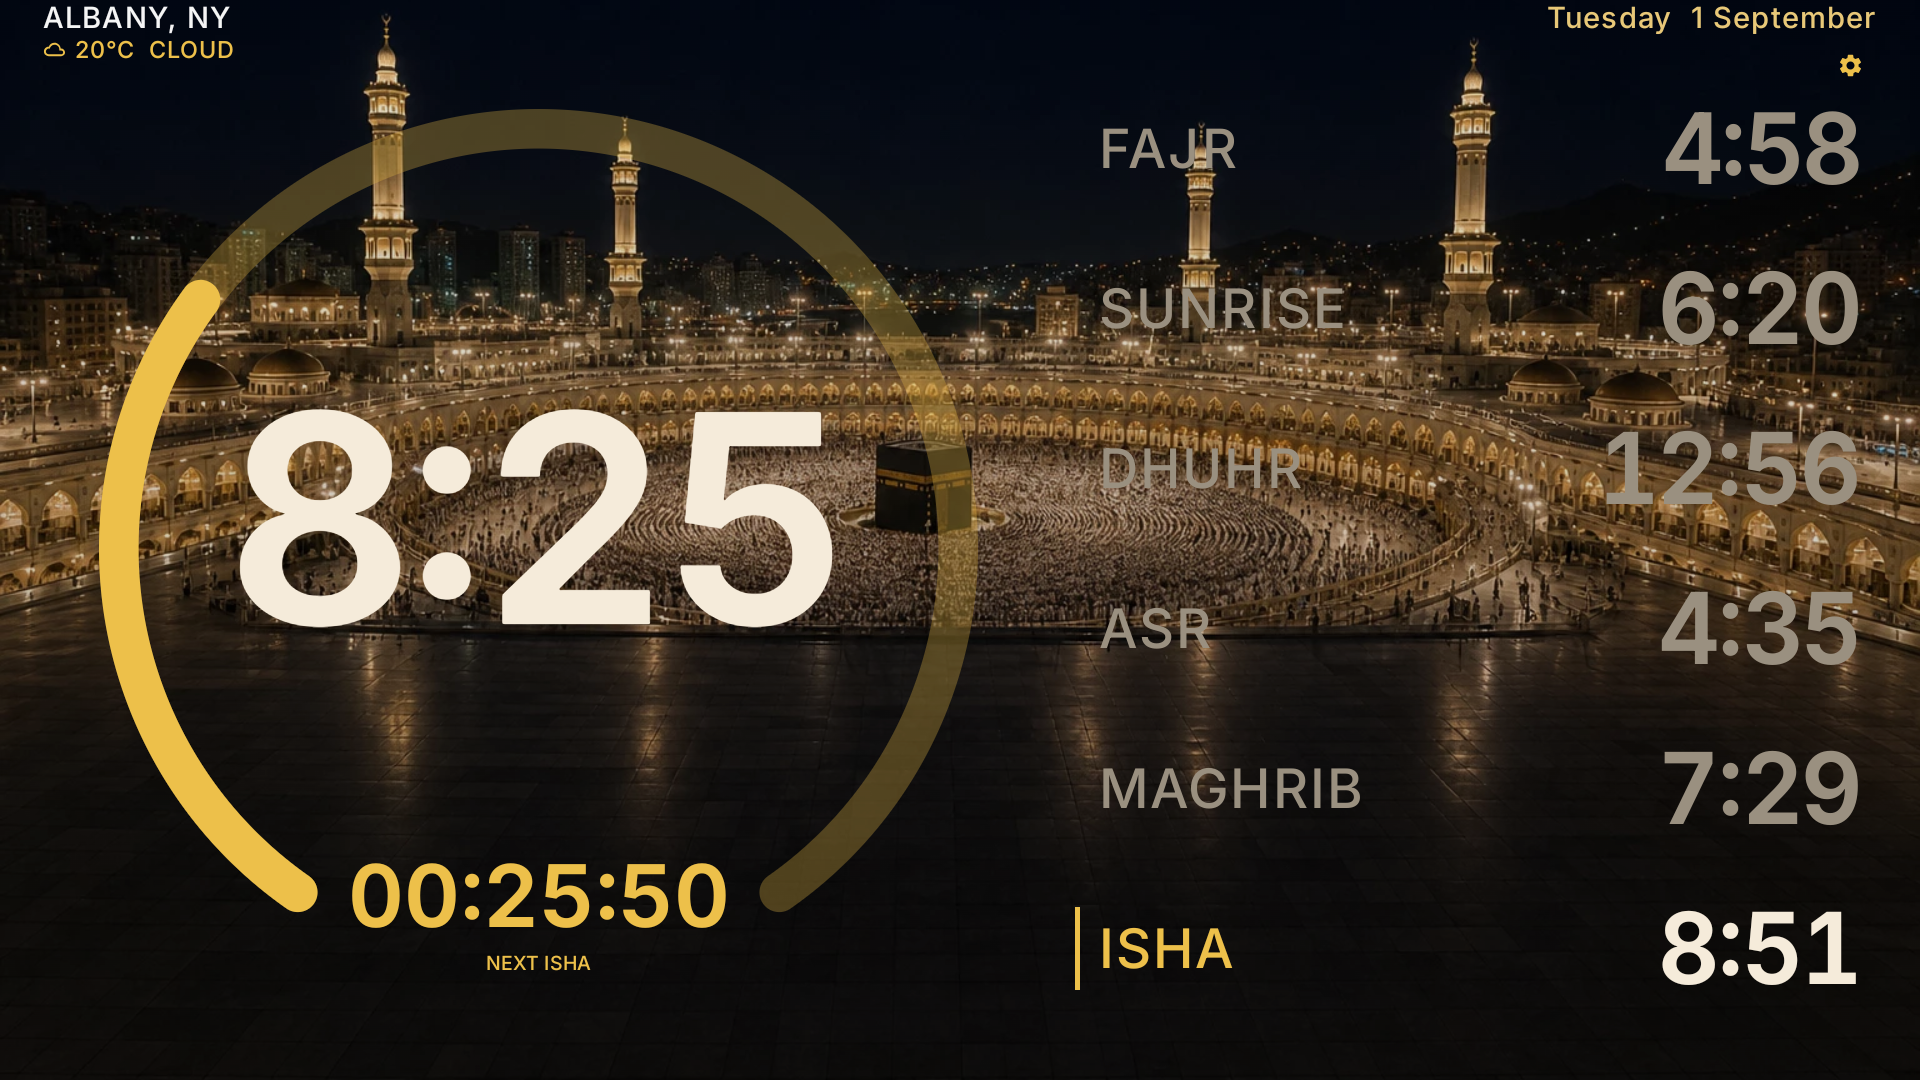
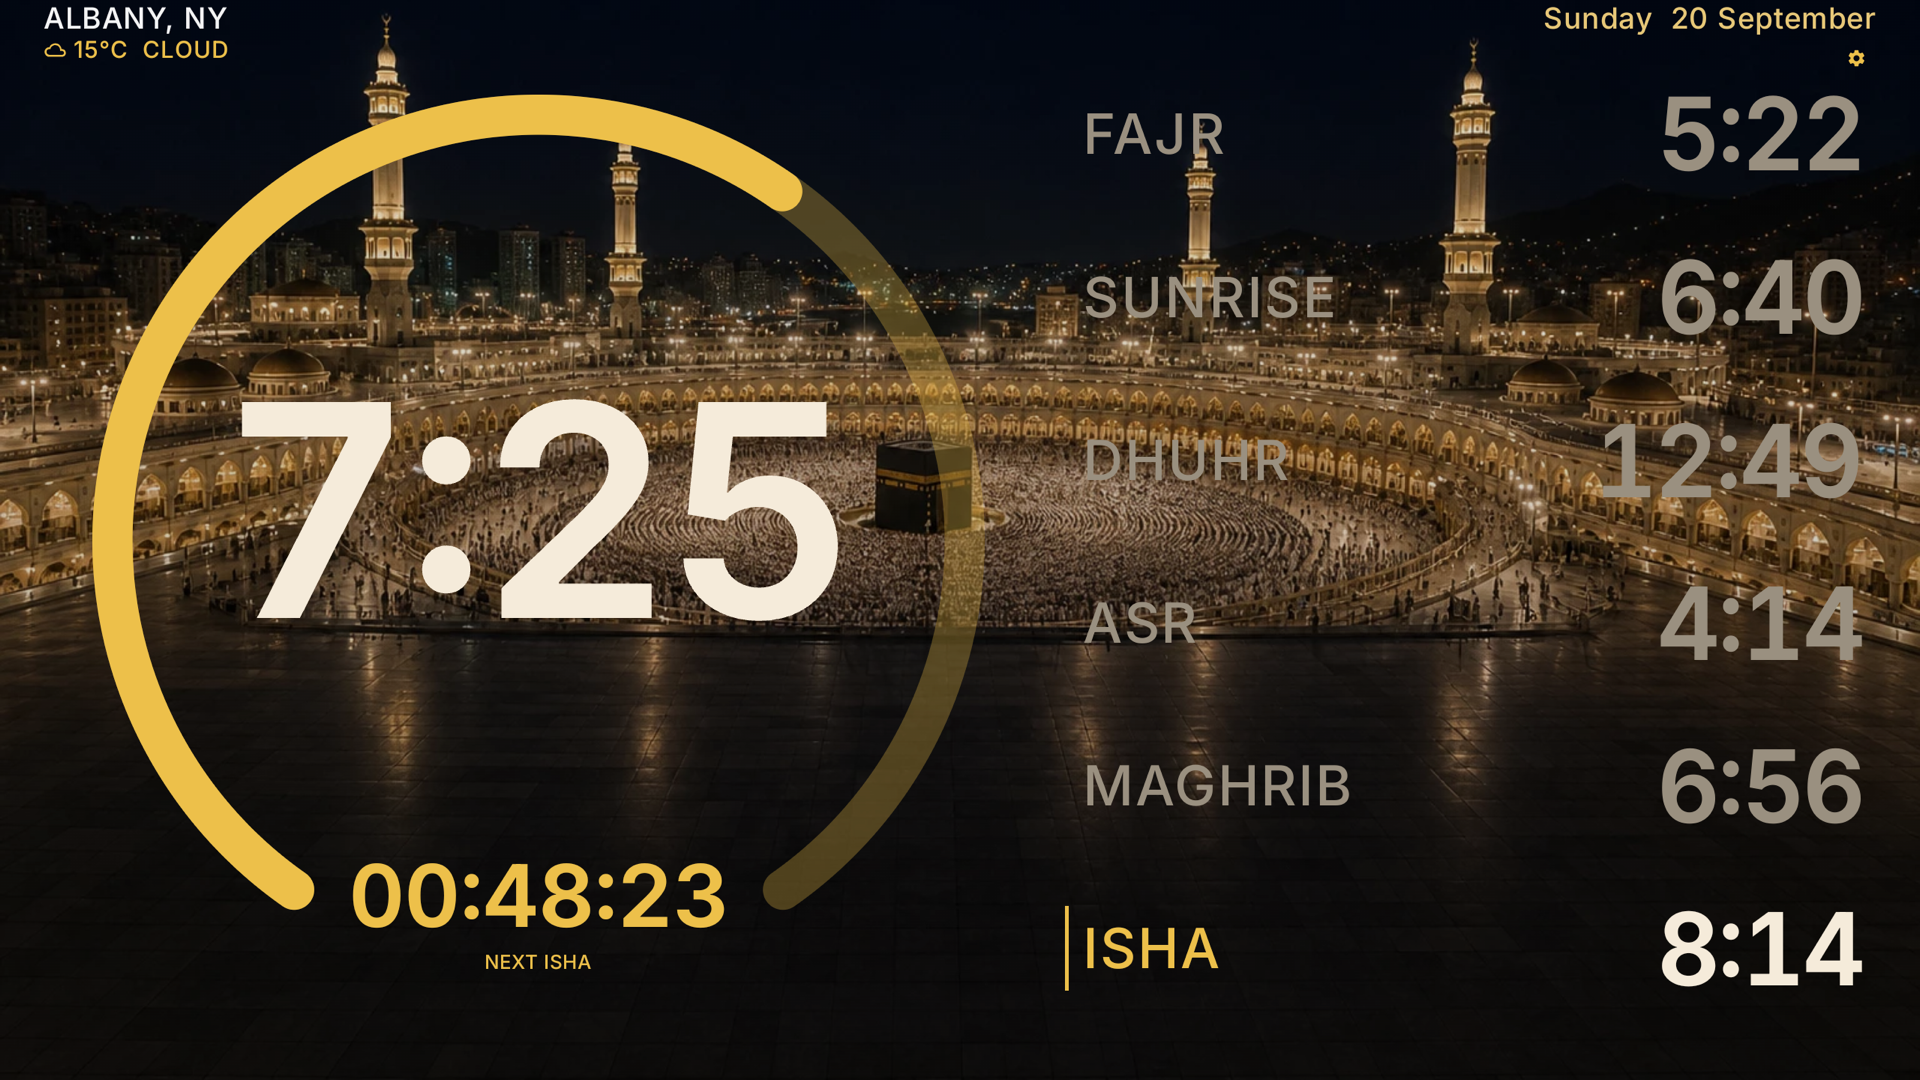
docs: refresh wall screenshots and drop push notes from README
Public gallery and Play listing frames match the current arc wall.
Leave Play Console ops and capture-raw out of the open repo.

diff --git a/store/listing/README.md b/store/listing/README.md
@@ -2,7 +2,7 @@
 
 Upload from `play/`, plus the icon and feature graphic. Do not upload `design/athan-wall-*.png`. Play's tablet slot wants 16:9 and 9:16 (1080px+).
 
-Idle frames refreshed 20 September 2026 from `ops/shots-landscape-arc-check.png` and `ops/shots-portrait-check.png` (arc timer wall, landscape split list, dark mosque only). Resized to Play slots. Athan frames are still the earlier Dhuhr-playing captures until a fresh emulator pass.
+All four frames refreshed 20 September 2026. Arc timer wall, landscape split list, dark mosque only. Portrait and landscape idle plus Dhuhr athan playing with TAP TO STOP. Feature graphic is a crop of the landscape idle wall with the icon and Athan Clock title.
 
 No settings sheet in any upload PNG. Light frames were dropped. The live wall is dark only.
 
@@ -20,8 +20,8 @@ Phone slot is the 7-inch wall in 9:16, not a phone UI. Console still asks for it
 
 1. `01-portrait-idle-dark.png` — portrait arc hero, 2×3 prayer grid
 2. `02-landscape-idle-dark.png` — landscape arc left, spaced prayer list right
-3. `03-portrait-athan-dark.png` — Adhan is playing (older capture; refresh when emulator is free)
-4. `04-landscape-athan-dark.png` — same, landscape
+3. `03-portrait-athan-dark.png` — Adhan is playing (Dhuhr), TAP TO STOP
+4. `04-landscape-athan-dark.png` — same, landscape split
 
 Max 8 per slot. These 4 fit.
 

diff --git a/README.md b/README.md
@@ -88,15 +88,7 @@ Specs live in `PROJECT.md` and `DESIGN.md`. Agent standing orders: `AGENTS.md`, 
 git clone https://github.com/AlmutazYounes/PrayerAthan.git
 cd PrayerAthan
 ./gradlew test
-./gradlew assembleDebug   # local compile check only
-```
-
-Wall tablets install from Play (internal or closed testing). Do not sideload debug over a Play install of the same package.
-
-Ship an internal testing build:
-
-```bash
-./store/scripts/push-release.sh "what changed"
+./gradlew assembleDebug
 ```
 
 ---
